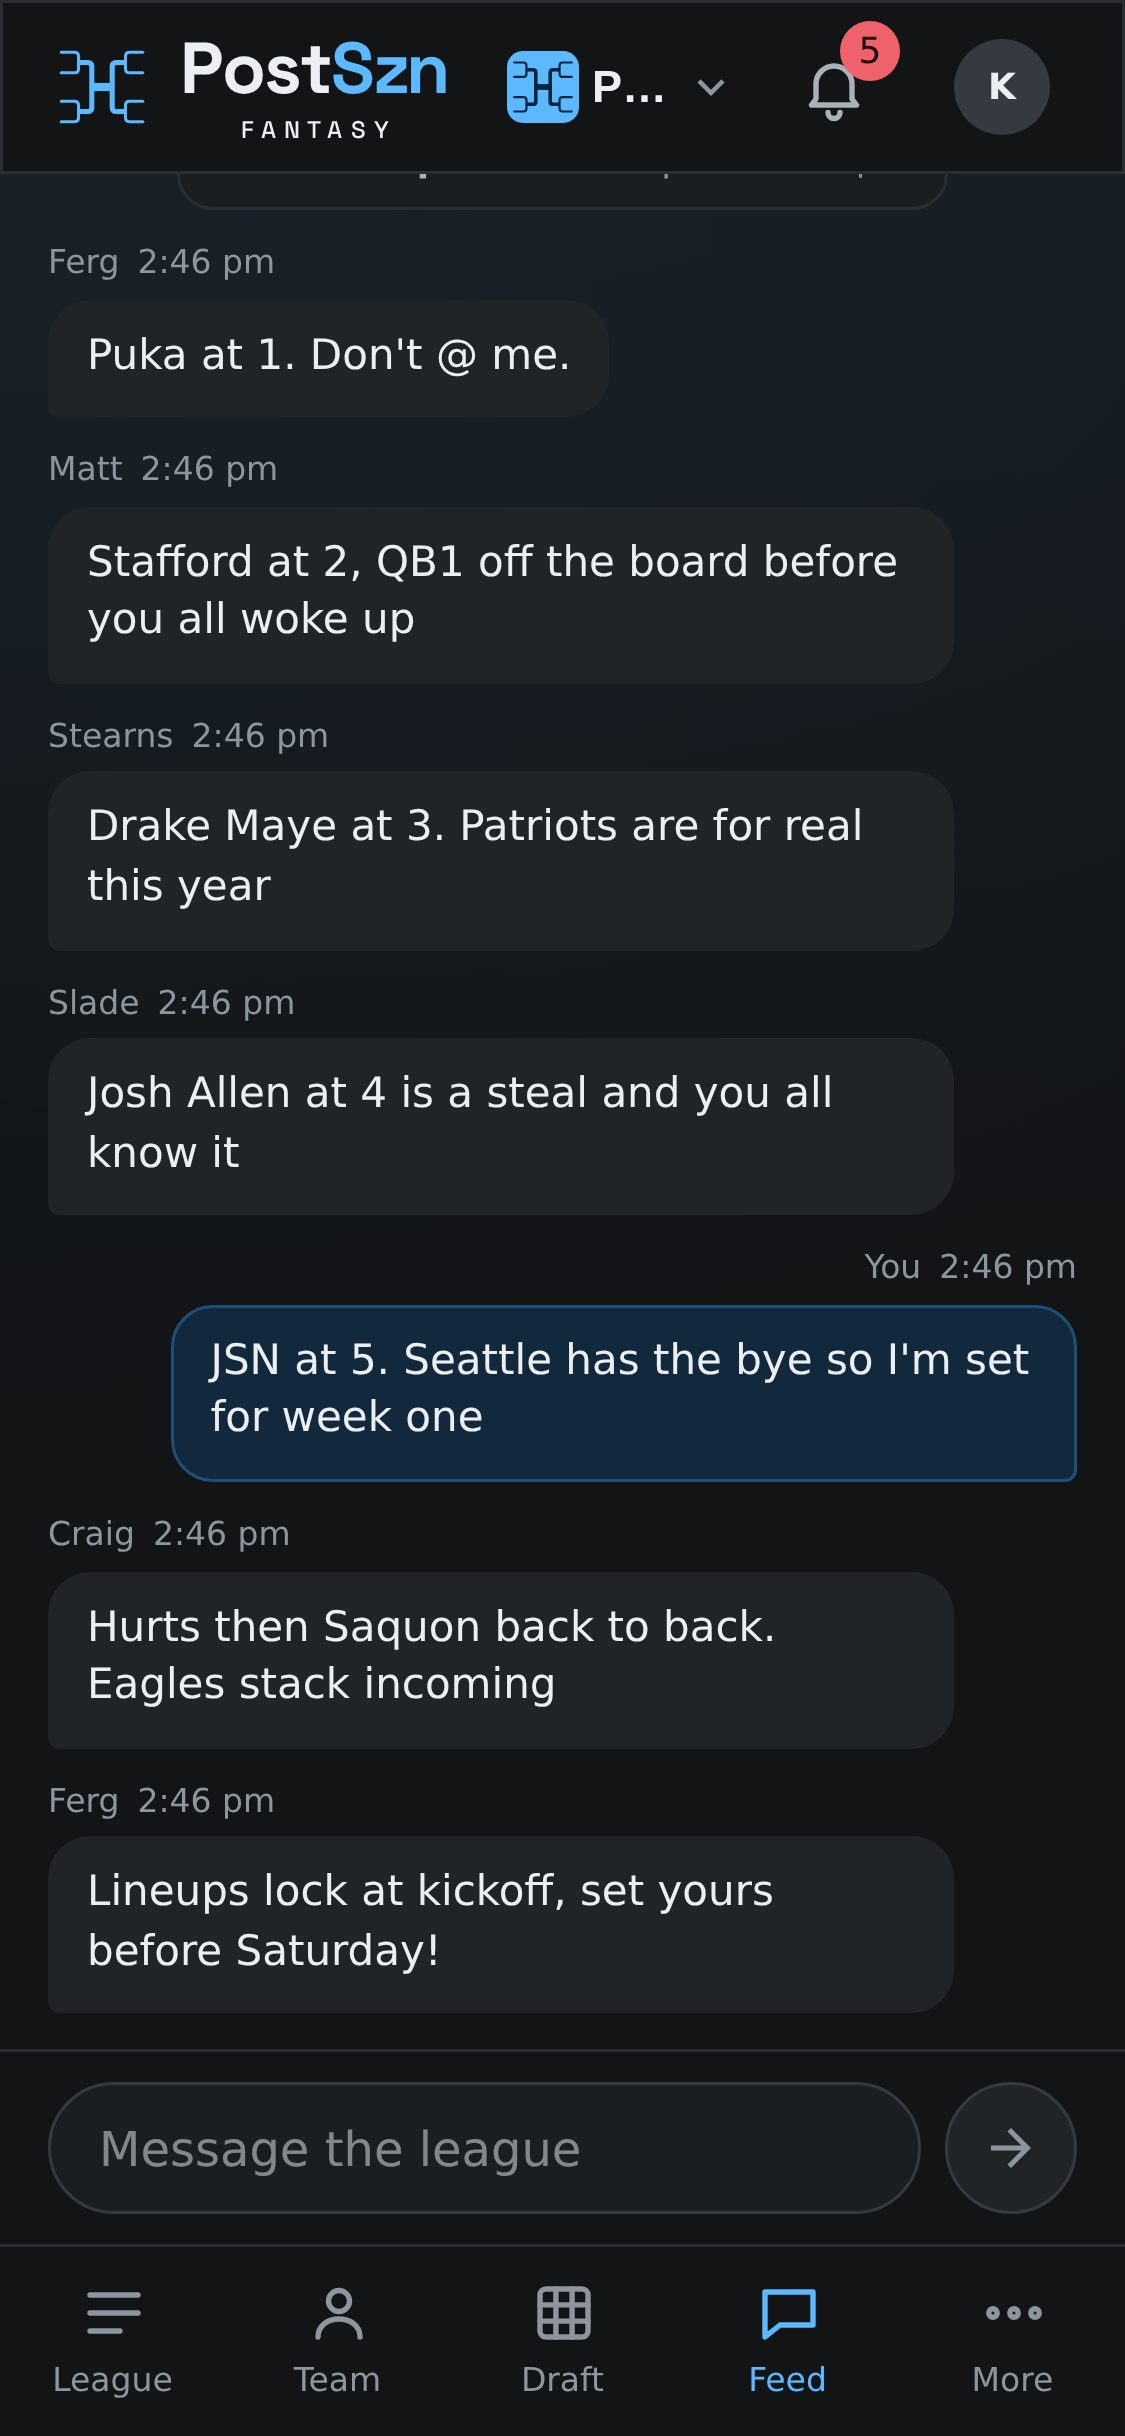
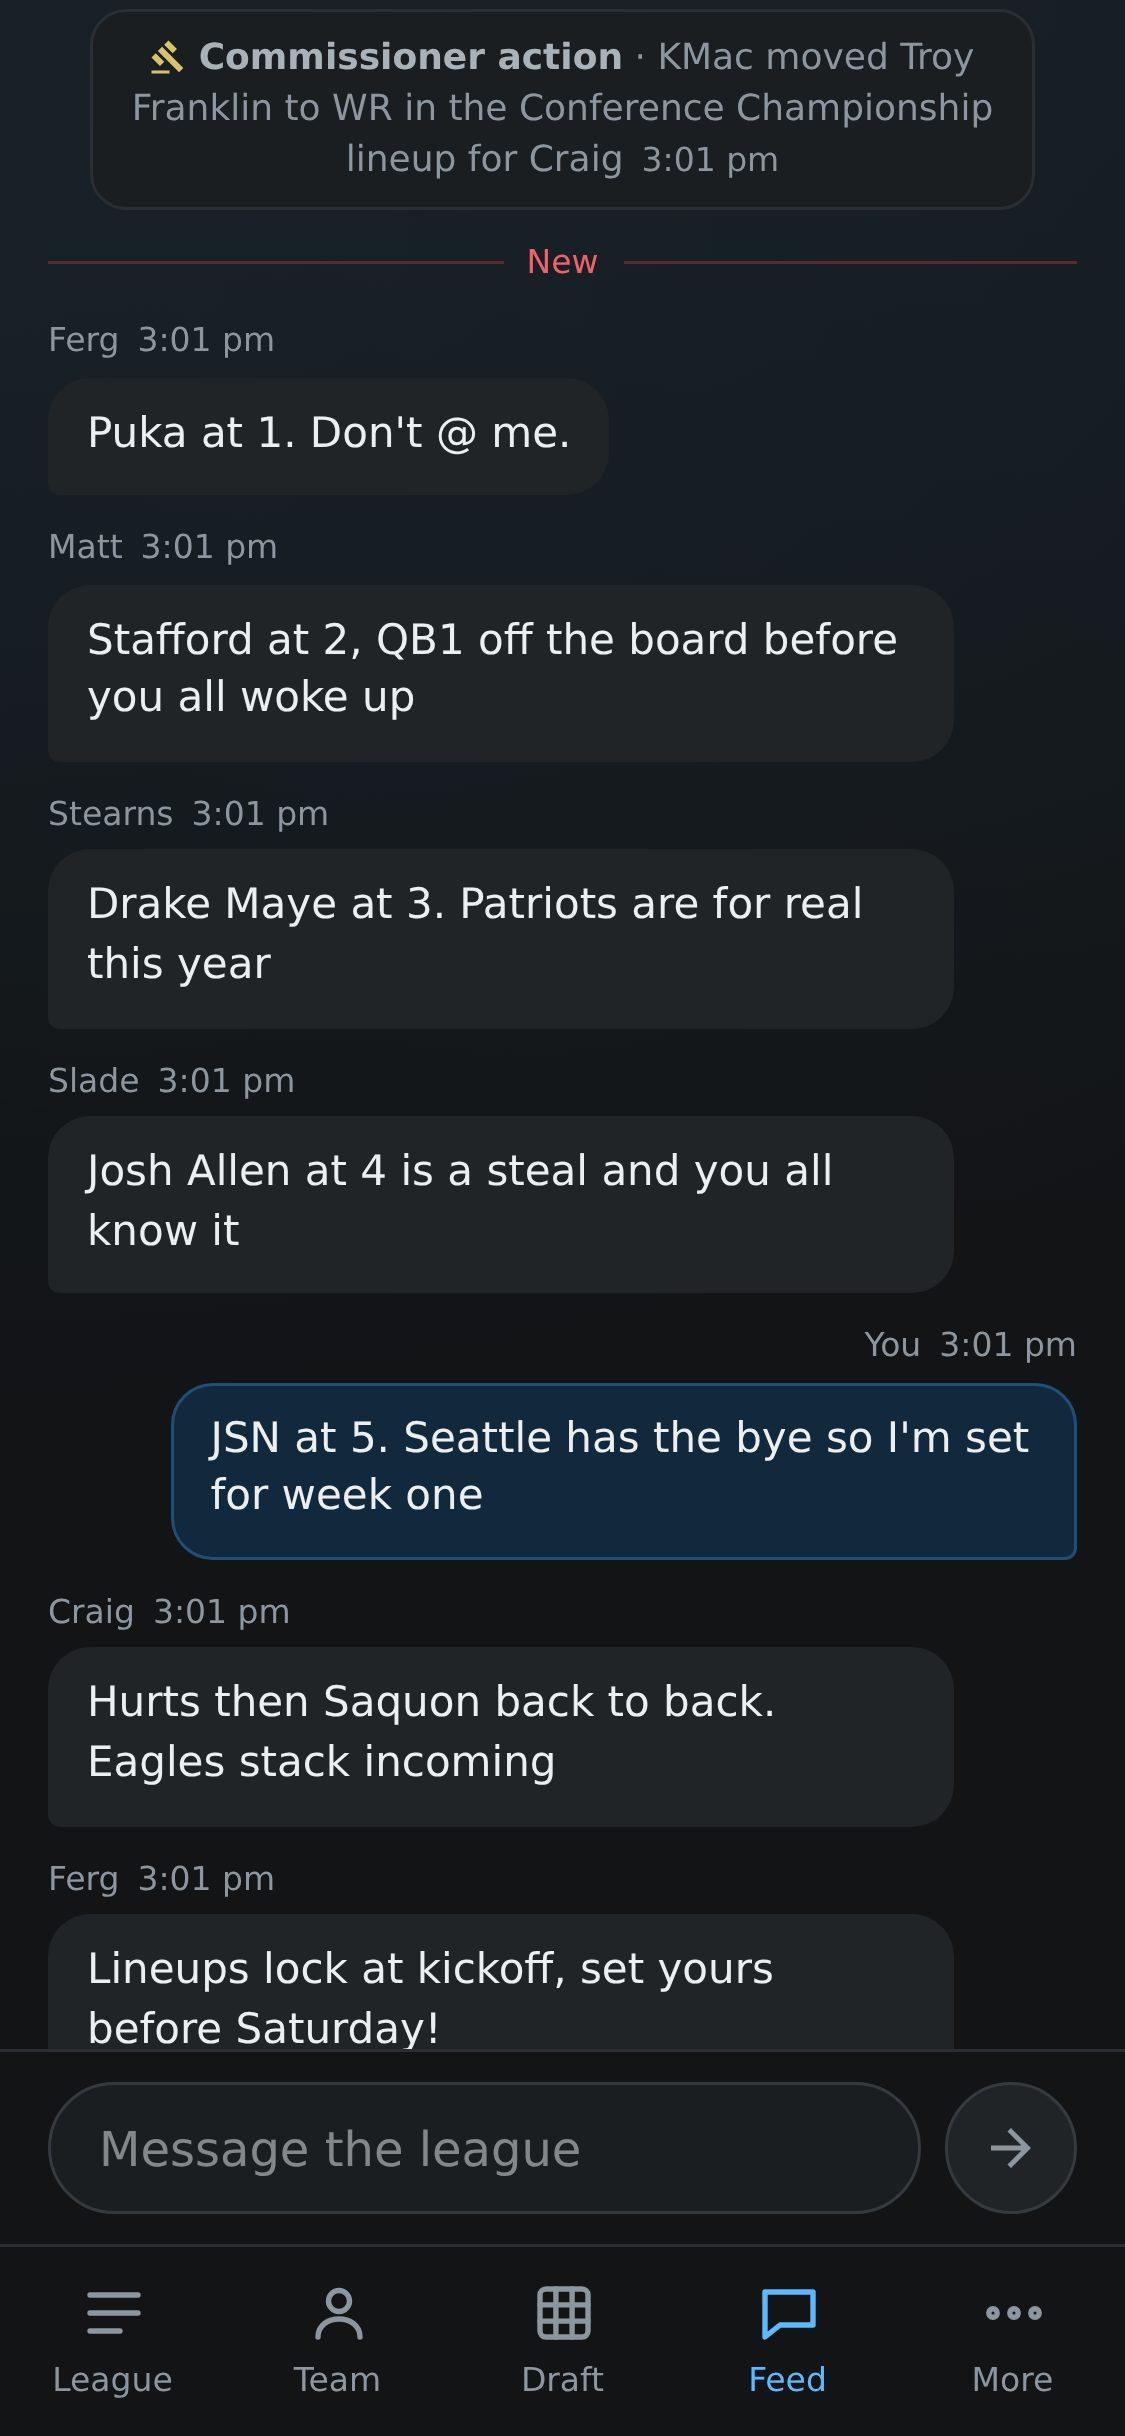
Commissioner actions: confirm, post to the Feed, one label (#518) (#523)
* Commissioner actions: confirm every lineup change on another team, post to the Feed, one standard label (#518)

* Recapture tour images for the commissioner action label

* Recapture tour images

* Recapture tour images

diff --git a/frontend/src/components/team/OverrideDialog.test.tsx b/frontend/src/components/team/OverrideDialog.test.tsx
@@ -2,23 +2,40 @@ import { fireEvent, render, screen } from "@testing-library/react";
 import { describe, expect, it, vi } from "vitest";
 import OverrideDialog from "./OverrideDialog";
 
+const dialog = (props: Partial<Parameters<typeof OverrideDialog>[0]> = {}) =>
+  render(
+    <OverrideDialog
+      pending={false}
+      teamName="Team 3"
+      onConfirm={() => {}}
+      onCancel={() => {}}
+      {...props}
+    />,
+  );
+
 describe("OverrideDialog", () => {
-  it("warns that the move is commissioner-only and the league will be told", () => {
-    render(<OverrideDialog pending={false} onConfirm={() => {}} onCancel={() => {}} />);
-    expect(screen.getByText("Are you sure?")).toBeTruthy();
+  it("names the team, says the owner is notified and the league sees it in the Feed", () => {
+    dialog();
+    expect(screen.getByRole("heading", { name: "Commissioner action" })).toBeTruthy();
     expect(
-      screen.getByText("This is a commissioner-only move and the league will be notified."),
+      screen.getByText(/You're changing Team 3's lineup\. Its owner is notified\./),
     ).toBeTruthy();
+    expect(screen.getByText(/The league sees this in the Feed\./)).toBeTruthy();
+  });
+
+  it("uses the stronger wording once a game has kicked off", () => {
+    dialog({ locked: true });
+    expect(screen.getByText(/after-kickoff override/)).toBeTruthy();
   });
 
   it("only changes anything when confirmed", () => {
     const onConfirm = vi.fn();
     const onCancel = vi.fn();
-    render(<OverrideDialog pending={false} onConfirm={onConfirm} onCancel={onCancel} />);
+    dialog({ onConfirm, onCancel });
     fireEvent.click(screen.getByRole("button", { name: "Cancel" }));
     expect(onConfirm).not.toHaveBeenCalled();
     expect(onCancel).toHaveBeenCalledTimes(1);
-    fireEvent.click(screen.getByRole("button", { name: "Make the change" }));
+    fireEvent.click(screen.getByRole("button", { name: "Confirm" }));
     expect(onConfirm).toHaveBeenCalledTimes(1);
   });
 });

diff --git a/frontend/src/components/feed/feedView.ts b/frontend/src/components/feed/feedView.ts
@@ -70,9 +70,29 @@ export interface EventLine {
   quote?: string;
 }
 
+export const COMMISSIONER_ACTION = "Commissioner action";
+
 const LABELLED: Partial<Record<FeedEventItem["kind"], string>> = {
-  commissioner_override: "Commissioner override",
   stat_correction: "Stat correction",
+};
+
+/** Events a commissioner causes on behalf of others all lead with the same words. */
+const isCommissionerAction = (event: FeedEventItem): boolean => {
+  switch (event.kind) {
+    case "commissioner_override":
+    case "draft_order_randomized":
+    case "draft_order_changed":
+    case "draft_started":
+    case "draft_time_set":
+    case "draft_pick_assigned":
+    case "settings_change":
+    case "role_changed":
+      return event.actorName !== null;
+    case "membership_left":
+      return event.actorName !== null && event.actorUserId !== event.payload.userId;
+    default:
+      return false;
+  }
 };
 
 const withoutLead = (sentence: string, lead: string | null): string =>
@@ -82,9 +102,15 @@ const withoutLead = (sentence: string, lead: string | null): string =>
 export const eventLine = (event: FeedEventItem): EventLine => {
   const sentence = describeEvent(event);
   const details = detailLines(event);
-  const warn = event.kind === "commissioner_override";
-  const label = LABELLED[event.kind];
-  if (label) return { lead: label, text: ` · ${sentence}`, details, warn };
+  const warn = event.kind === "commissioner_override" && event.payload.locked !== false;
+  const label = isCommissionerAction(event) ? COMMISSIONER_ACTION : LABELLED[event.kind];
+  if (label) {
+    const order =
+      event.kind === "draft_order_randomized"
+        ? [...event.payload.order].sort((a, b) => a.position - b.position).map((s) => s.teamName)
+        : undefined;
+    return { lead: label, text: ` · ${sentence}`, details, warn, ...(order && { order }) };
+  }
   switch (event.kind) {
     case "draft_completed":
       return {

diff --git a/frontend/src/components/team/OverrideDialog.tsx b/frontend/src/components/team/OverrideDialog.tsx
@@ -5,21 +5,34 @@ interface Props {
   onConfirm: () => void;
   onCancel: () => void;
   pending: boolean;
+  /** The team being changed, named in the warning. */
+  teamName: string;
+  /** The commissioner's own team: nobody else to notify. */
+  ownTeam?: boolean;
+  /** A player whose game has kicked off is involved: the stronger wording. */
+  locked?: boolean;
 }
 
-/** Asked before a commissioner changes a locked slot; the league is told afterwards. */
-const OverrideDialog = ({ onConfirm, onCancel, pending }: Props) => (
+/** Asked before a commissioner changes someone else's lineup or a locked slot; the league is told afterwards. */
+const OverrideDialog = ({ onConfirm, onCancel, pending, teamName, ownTeam, locked }: Props) => (
   <Dialog open onClose={onCancel} fullWidth maxWidth="xs" aria-labelledby="override-title">
-    <DialogTitle id="override-title">Are you sure?</DialogTitle>
+    <DialogTitle id="override-title">Commissioner action</DialogTitle>
     <DialogContent>
-      <Typography>This is a commissioner-only move and the league will be notified.</Typography>
+      <Typography>
+        {ownTeam
+          ? "You're changing your own lineup after kickoff."
+          : `You're changing ${teamName}'s lineup. Its owner is notified.`}{" "}
+        {locked
+          ? "A player's game has already kicked off, so the league sees this in the Feed flagged as an after-kickoff override."
+          : "The league sees this in the Feed."}
+      </Typography>
     </DialogContent>
     <DialogActions sx={{ px: 3, pb: 2, gap: 1 }}>
       <Button sx={{ minHeight: 44 }} onClick={onCancel}>
         Cancel
       </Button>
       <Button sx={{ minHeight: 44 }} variant="contained" disabled={pending} onClick={onConfirm}>
-        Make the change
+        Confirm
       </Button>
     </DialogActions>
   </Dialog>

diff --git a/frontend/src/pages/TeamPage.tsx b/frontend/src/pages/TeamPage.tsx
@@ -4,6 +4,7 @@ import { useParams } from "react-router-dom";
 import {
   type LineupMoveRequest,
   needsOverrideConfirmation,
+  overrideIsLocked,
   useLeagueInfo,
   useLeagueSettings,
   useMoveInLineup,
@@ -68,7 +69,10 @@ const TeamContent = ({ team }: { team: TeamDetails }) => {
   const [fillSlotIndex, setFillSlotIndex] = useState<number | null>(null);
   const moveInLineup = useMoveInLineup(teamId);
   // A locked move the server wants confirmed first; held until the commissioner answers.
-  const [pendingOverride, setPendingOverride] = useState<LineupMoveRequest | null>(null);
+  const [pendingOverride, setPendingOverride] = useState<{
+    request: LineupMoveRequest;
+    locked: boolean;
+  } | null>(null);
   const move = (request: LineupMoveRequest) =>
     moveInLineup.mutate(request, {
       onSuccess: () => {
@@ -76,7 +80,8 @@ const TeamContent = ({ team }: { team: TeamDetails }) => {
         setFillSlotIndex(null);
       },
       onError: (error) => {
-        if (needsOverrideConfirmation(error)) setPendingOverride(request);
+        if (needsOverrideConfirmation(error))
+          setPendingOverride({ request, locked: overrideIsLocked(error) });
       },
     });
   const moveError = needsOverrideConfirmation(moveInLineup.error)
@@ -210,9 +215,12 @@ const TeamContent = ({ team }: { team: TeamDetails }) => {
       {pendingOverride && (
         <OverrideDialog
           pending={moveInLineup.isPending}
+          teamName={team.name}
+          ownTeam={isMine}
+          locked={pendingOverride.locked}
           onCancel={() => setPendingOverride(null)}
           onConfirm={() => {
-            move({ ...pendingOverride, confirmOverride: true });
+            move({ ...pendingOverride.request, confirmOverride: true });
             setPendingOverride(null);
           }}
         />

diff --git a/frontend/src/components/feed/feedView.test.ts b/frontend/src/components/feed/feedView.test.ts
@@ -104,6 +104,28 @@ describe("eventLine", () => {
     expect(correction.text).toContain("Henry");
   });
 
+  it("leads a commissioner's lineup move with the standard label, red only after kickoff", () => {
+    const payload = {
+      round: 1,
+      playerId: 1,
+      playerName: "Stafford",
+      fromSlot: "QB",
+      toSlot: "BENCH",
+      displaced: null,
+      changedSlots: [0],
+      byCommissioner: true,
+    };
+    const before = eventLine(
+      event(5, { kind: "commissioner_override", payload: { ...payload, locked: false } }),
+    );
+    expect(before.lead).toBe("Commissioner action");
+    expect(before.warn).toBe(false);
+    const after = eventLine(
+      event(6, { kind: "commissioner_override", payload: { ...payload, locked: true } }),
+    );
+    expect(after.warn).toBe(true);
+  });
+
   it("shows a pinned announcement's text in full", () => {
     const line = eventLine(
       event(7, { kind: "announcement", payload: { body: "Draft is Saturday at 8" } }),
@@ -124,7 +146,8 @@ describe("eventLine", () => {
         },
       }),
     );
-    expect(line.text).toBe(" randomized the draft order");
+    expect(line.lead).toBe("Commissioner action");
+    expect(line.text).toBe(" · Kyle randomized the draft order");
     expect(line.order).toEqual(["Dave's Dawgs", "Sam's Squad"]);
   });
 
@@ -137,8 +160,8 @@ describe("eventLine", () => {
         },
       }),
     );
-    expect(line.lead).toBe("Kyle");
-    expect(line.text).toBe(" changed the draft order · Sam's Squad moved from 2 to 4");
+    expect(line.lead).toBe("Commissioner action");
+    expect(line.text).toBe(" · Kyle changed the draft order: Sam's Squad moved from 2 to 4");
   });
 
   it("reports the pick count when the draft completes", () => {

diff --git a/frontend/src/components/activity/ActivityFeed.tsx b/frontend/src/components/activity/ActivityFeed.tsx
@@ -106,7 +106,7 @@ const ActivityFeed = ({ scope, id, title, defaultOpen = false }: Props) => {
               sx={{
                 listStyle: "none",
                 p: 1.25,
-                border: `1px solid ${event.kind === "commissioner_override" ? tokens.red : tokens.border}`,
+                border: `1px solid ${event.kind === "commissioner_override" && event.payload.locked !== false ? tokens.red : tokens.border}`,
                 borderRadius: 1,
               }}
             >
@@ -115,7 +115,12 @@ const ActivityFeed = ({ scope, id, title, defaultOpen = false }: Props) => {
                   <Chip size="small" label="New" color="primary" sx={{ mr: 1 }} />
                 )}
                 {event.kind === "commissioner_override" && (
-                  <Chip size="small" variant="outlined" label="Override" sx={{ mr: 1 }} />
+                  <Chip
+                    size="small"
+                    variant="outlined"
+                    label={event.payload.locked !== false ? "Override" : "Commissioner"}
+                    sx={{ mr: 1 }}
+                  />
                 )}
                 {describeEvent(event)}
               </Typography>

diff --git a/frontend/src/components/activity/describe.ts b/frontend/src/components/activity/describe.ts
@@ -49,9 +49,12 @@ export const describeEvent = (event: ActivityEvent): string => {
           ? `took ${p.playerName} out of the ${round} lineup`
           : `moved ${p.playerName} to ${slotName(p.toSlot)} in the ${round} lineup`;
       const swap = p.displaced ? `, swapping out ${p.displaced.playerName}` : "";
-      const after = event.kind === "commissioner_override" ? " after kickoff" : "";
+      const override = event.kind === "commissioner_override";
+      const after = override && p.locked !== false ? " after kickoff" : "";
       const on = event.teamName && event.actorName !== null ? ` for ${event.teamName}` : "";
-      return `${who}${p.byCommissioner ? " (commissioner)" : ""} ${action}${swap}${after}${on}`;
+      // The feed's "Commissioner action" lead says it already.
+      const tag = p.byCommissioner && !override ? " (commissioner)" : "";
+      return `${who}${tag} ${action}${swap}${after}${on}`;
     }
     case "stat_correction": {
       const p = event.payload;

diff --git a/frontend/src/components/feed/FeedEventRow.tsx b/frontend/src/components/feed/FeedEventRow.tsx
@@ -1,7 +1,8 @@
+import GavelIcon from "@mui/icons-material/Gavel";
 import { Box, Typography } from "@mui/material";
 import type { FeedEventItem } from "../../api/types";
 import { tint, tokens } from "../../theme";
-import { eventLine, timeLabel } from "./feedView";
+import { COMMISSIONER_ACTION, eventLine, timeLabel } from "./feedView";
 
 const pillSx = {
   alignSelf: "center",
@@ -26,6 +27,13 @@ const Time = ({ iso }: { iso: string }) => (
 
 const Lead = ({ children }: { children: string }) => (
   <Box component="b" sx={{ color: tokens.textSoft, fontWeight: 600 }}>
+    {children === COMMISSIONER_ACTION && (
+      // Decorative: the words already say it.
+      <GavelIcon
+        aria-hidden
+        sx={{ fontSize: "1em", verticalAlign: "-0.12em", mr: 0.5, color: tokens.warning }}
+      />
+    )}
     {children}
   </Box>
 );

diff --git a/frontend/src/api/queries.ts b/frontend/src/api/queries.ts
@@ -595,6 +595,10 @@ export const needsOverrideConfirmation = (error: unknown): boolean =>
   (error as { response?: { data?: { code?: unknown } } } | null)?.response?.data?.code ===
   "override_confirmation_required";
 
+/** Whether the server's confirmation is the after-kickoff kind (a locked player is involved). */
+export const overrideIsLocked = (error: unknown): boolean =>
+  (error as { response?: { data?: { locked?: unknown } } } | null)?.response?.data?.locked === true;
+
 /** One feed, newest first, a page at a time. `scope` is the season or one team. */
 export const useActivityFeed = (scope: "seasons" | "teams", id: Id | undefined) =>
   useInfiniteQuery({

diff --git a/frontend/src/components/activity/describe.test.ts b/frontend/src/components/activity/describe.test.ts
@@ -50,8 +50,16 @@ describe("describeEvent", () => {
       kind: "commissioner_override",
       payload: { ...move, byCommissioner: true },
     };
-    expect(describeEvent(event)).toContain("(commissioner)");
     expect(describeEvent(event)).toContain("after kickoff");
+  });
+
+  it("does not say after kickoff for a commissioner move on another team before kickoff", () => {
+    const event: ActivityEvent = {
+      ...base,
+      kind: "commissioner_override",
+      payload: { ...move, byCommissioner: true, locked: false },
+    };
+    expect(describeEvent(event)).not.toContain("after kickoff");
   });
 
   it("reports a taken-out player", () => {

diff --git a/frontend/src/components/draft/DraftBoard.test.tsx b/frontend/src/components/draft/DraftBoard.test.tsx
@@ -122,7 +122,7 @@ describe("DraftBoard", () => {
     fireEvent.click(screen.getByTestId("pick-1"));
     expect(screen.getByText("Pat QB")).toBeTruthy();
     expect(screen.getByText("Round 1 · Alpha")).toBeTruthy();
-    expect(screen.getByText("Auto-picked by the commissioner (Auto-pick now)")).toBeTruthy();
+    expect(screen.getByText("Commissioner action · auto-picked (Auto-pick now)")).toBeTruthy();
   });
 
   it("badges picks the manager did not make and lists only those badges in the legend", () => {

diff --git a/frontend/src/components/draft/pickSource.test.ts b/frontend/src/components/draft/pickSource.test.ts
@@ -9,7 +9,7 @@ describe("pick source wording", () => {
   it("tells a commissioner's auto-pick now apart from a timer auto pick", () => {
     expect(sourceDetail("timer")).toBe("Auto-picked: time ran out");
     expect(sourceDetail("commissioner_auto")).toBe(
-      "Auto-picked by the commissioner (Auto-pick now)",
+      "Commissioner action · auto-picked (Auto-pick now)",
     );
     expect(pickSentence(pick("timer"), "Alpha")).toBe(
       "Pick 3: time ran out, Josh Allen was auto-picked for Alpha",
